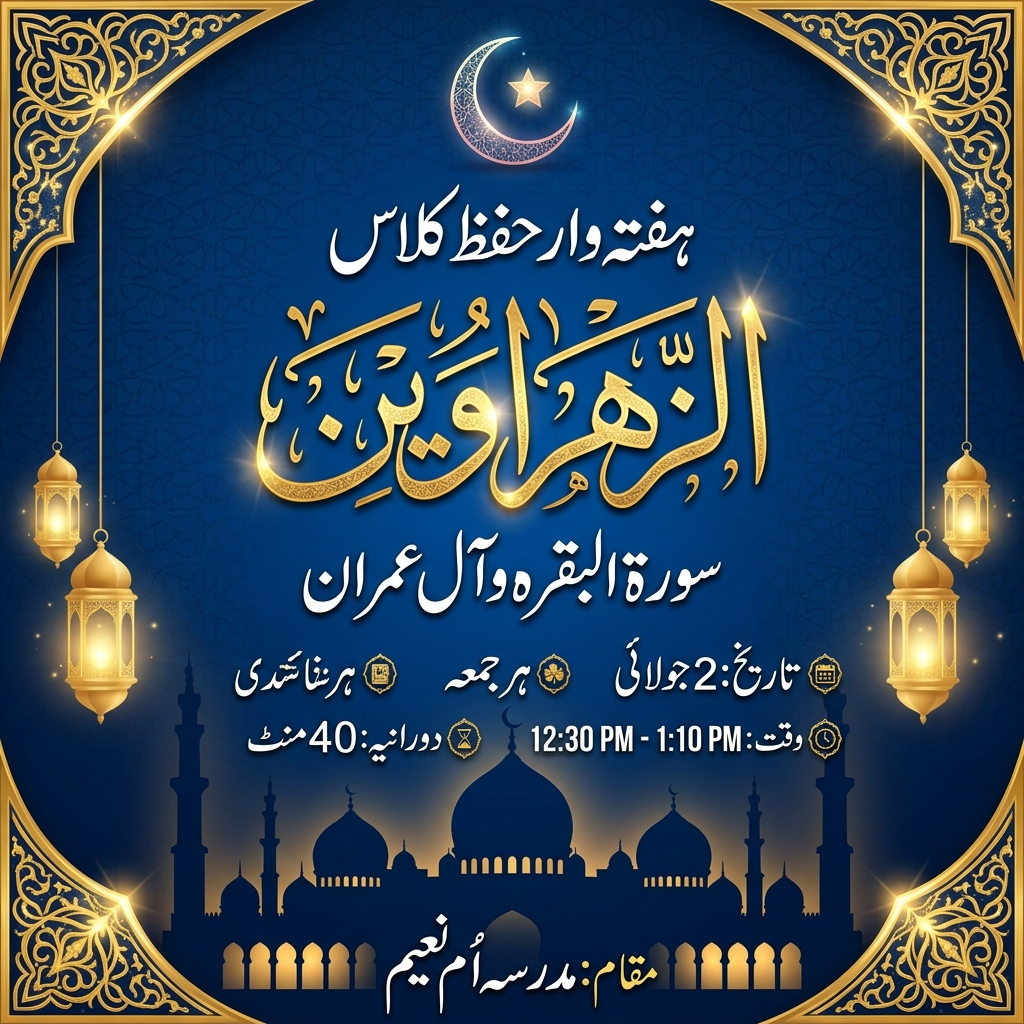
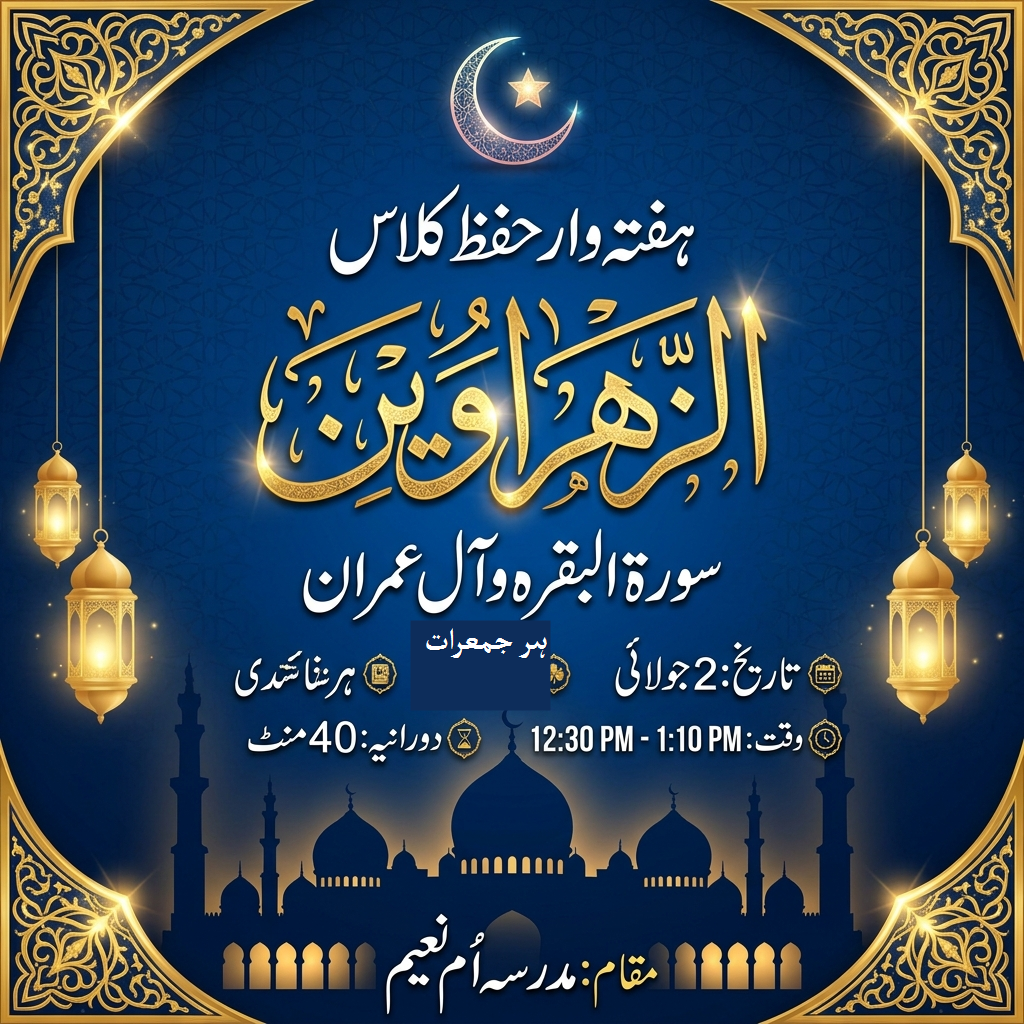
Fix typescript compile errors and change poster text to every Thursday

Changed region(s): [[0.375, 0.5938, 0.5625, 0.6875]]

diff --git a/components/Contact.tsx b/components/Contact.tsx
@@ -84,7 +84,7 @@ export default function Contact() {
               }}>
               ﴿ وَلَقَدْ يَسَّرْنَا الْقُرْآنَ لِلذِّكْرِ ﴾
             </p>
-            <p className="text-white/60 text-sm leading-relaxed" style={{ fontFamily: "Poppins, sans-serif", tracking: "0.02em" }}>
+            <p className="text-white/60 text-sm leading-relaxed" style={{ fontFamily: "Poppins, sans-serif", letterSpacing: "0.02em" }}>
               "And We have certainly made the Quran easy for remembrance."
             </p>
           </div>

diff --git a/components/MoonAnimation.tsx b/components/MoonAnimation.tsx
@@ -7,7 +7,6 @@ export default function MoonAnimation() {
       <div
         className="absolute inset-0 rounded-full"
         style={{
-          width: "90px", height: "90px",
           background: "radial-gradient(circle, rgba(201,168,76,0.18) 0%, transparent 70%)",
           animation: "moonGlow 4s ease-in-out infinite",
           top: "-20px", left: "-20px",